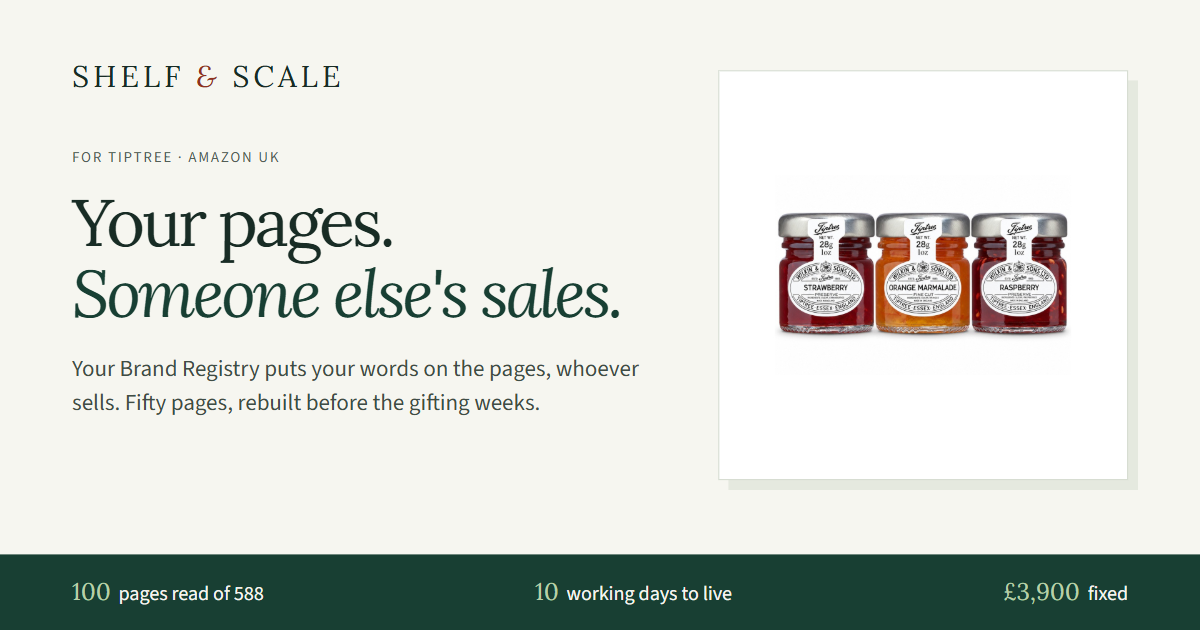
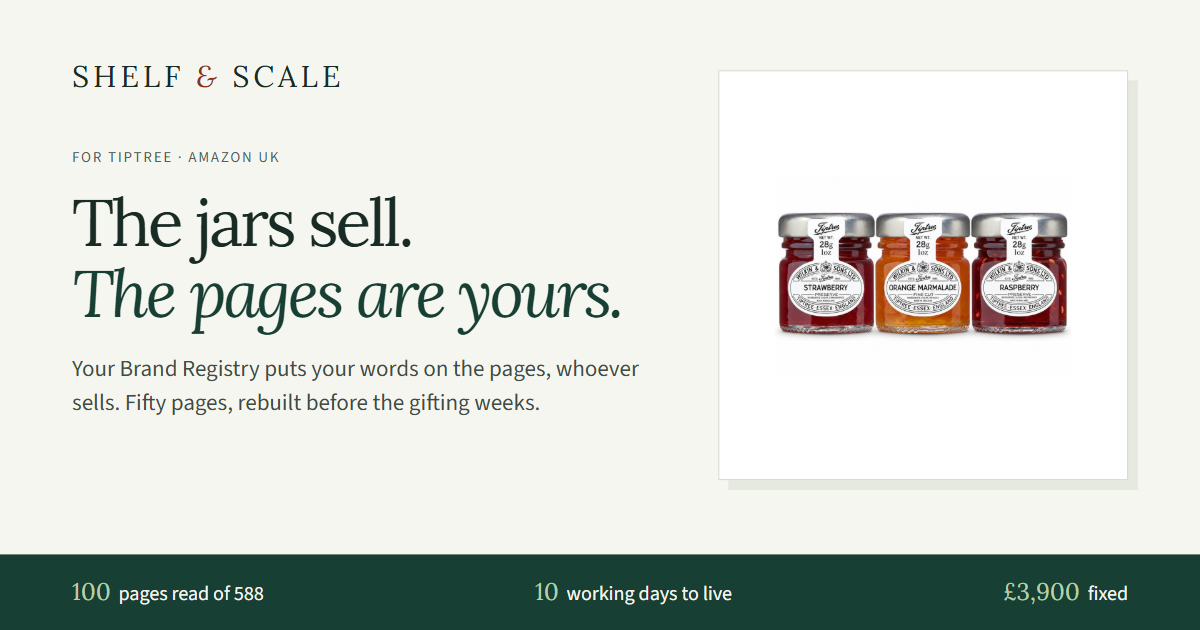
demos: Tiptree headline softened (the jars sell, the pages are yours)

Changed region(s): [[0.0617, 0.4222, 0.5242, 0.5429], [0.0617, 0.3016, 0.3392, 0.4222]]

diff --git a/r/tiptree-q4/index.html b/r/tiptree-q4/index.html
@@ -7,7 +7,7 @@
   <meta name="robots" content="noindex,nofollow,noarchive">
   <meta property="og:type" content="website">
   <meta property="og:title" content="Tiptree on Amazon UK — a plan for Q4">
-  <meta property="og:description" content="588 pages carry the Tiptree name on Amazon UK; we read 100. Wholesalers and resellers hold every offer. A plan to rebuild fifty of the pages through your Brand Registry before the gifting weeks.">
+  <meta property="og:description" content="588 pages carry the Tiptree name on Amazon UK; we read 100. Your distributor and resellers hold the offers; the words and pictures on the pages are yours. A plan to rebuild fifty of them through your Brand Registry before the gifting weeks.">
   <meta property="og:image" content="https://shelfandscale.com/r/tiptree-q4/og.png">
   <meta property="og:url" content="https://shelfandscale.com/r/tiptree-q4/">
   <meta name="twitter:card" content="summary_large_image">
@@ -31,8 +31,8 @@
   <section class="hero container" aria-labelledby="hero-title">
     <div class="hero-copy">
       <p class="eyebrow"><span class="eyebrow-line"></span> FOR TIPTREE · AMAZON UK · Q4 2026</p>
-      <h1 id="hero-title">Your pages. <em class="ln">Someone else's sales.</em></h1>
-      <p class="hero-description">588 pages carry your name on Amazon UK. We read 100: 99 have sellers, none of them you or Amazon. Your mini jars: "400+ bought in past month", bullets that read "Product type: FOOD".</p>
+      <h1 id="hero-title">The jars sell. <em class="ln">The pages are yours.</em></h1>
+      <p class="hero-description">588 pages carry your name on Amazon UK. Of the 100 we read, 99 are live, sold by your distributor and others. Mini jars: "400+ bought in past month", a bullet reading "Product type: FOOD".</p>
     </div>
     <ul class="tldr">
       <li><span>What we propose</span><div>Rebuild <b>fifty of your pages through your Brand Registry</b>: title, bullets, search terms, seven images each. Who sells stays as it is.</div></li>

diff --git a/r/tiptree-q4/og.html b/r/tiptree-q4/og.html
@@ -11,6 +11,6 @@ p{font-size:23px;line-height:1.45;color:#3f4d45;margin:24px 0 0}
 .bar{position:absolute;left:0;right:0;bottom:0;background:#183f33;color:#f6f6f0;display:flex;justify-content:space-between;align-items:center;padding:22px 72px;font-size:20px}
 .bar b{font-family:'Lora',serif;font-weight:400;font-size:24px;margin-right:8px;color:#b8cfa9}
 </style></head><body><div class="l"><div class="wm">Shelf <i>&amp;</i> Scale</div><div class="eyebrow">FOR TIPTREE · AMAZON UK</div>
-<h1>Your pages. <em>Someone else's sales.</em></h1><p>Your Brand Registry puts your words on the pages, whoever sells. Fifty pages, rebuilt before the gifting weeks.</p></div>
+<h1>The jars sell. <em>The pages are yours.</em></h1><p>Your Brand Registry puts your words on the pages, whoever sells. Fifty pages, rebuilt before the gifting weeks.</p></div>
 <div class="card"><img src="img/minis-main-hero.jpg"></div>
 <div class="bar"><span><b>100</b>pages read of 588</span><span><b>10</b>working days to live</span><span><b>£3,900</b>fixed</span></div></body></html>
